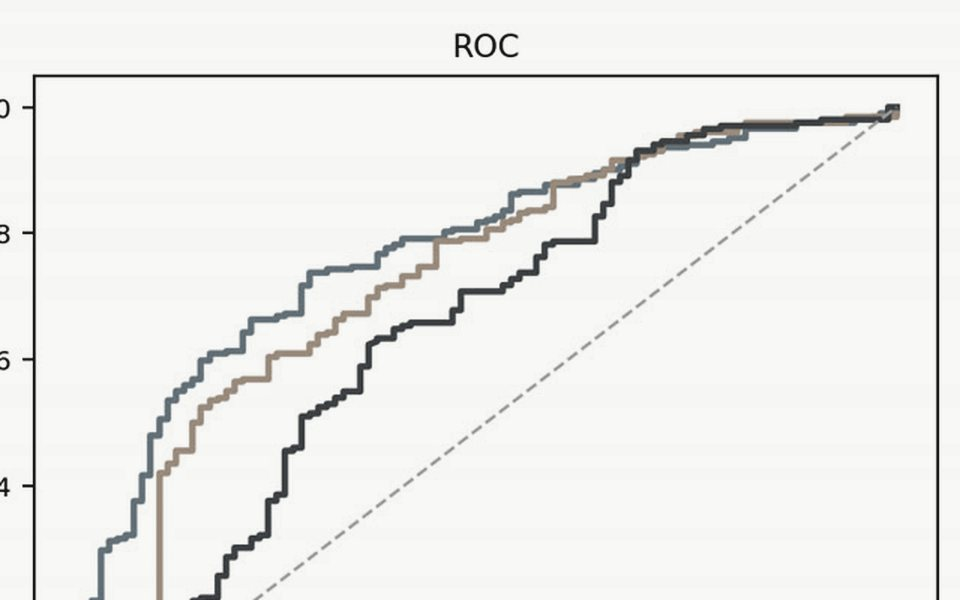
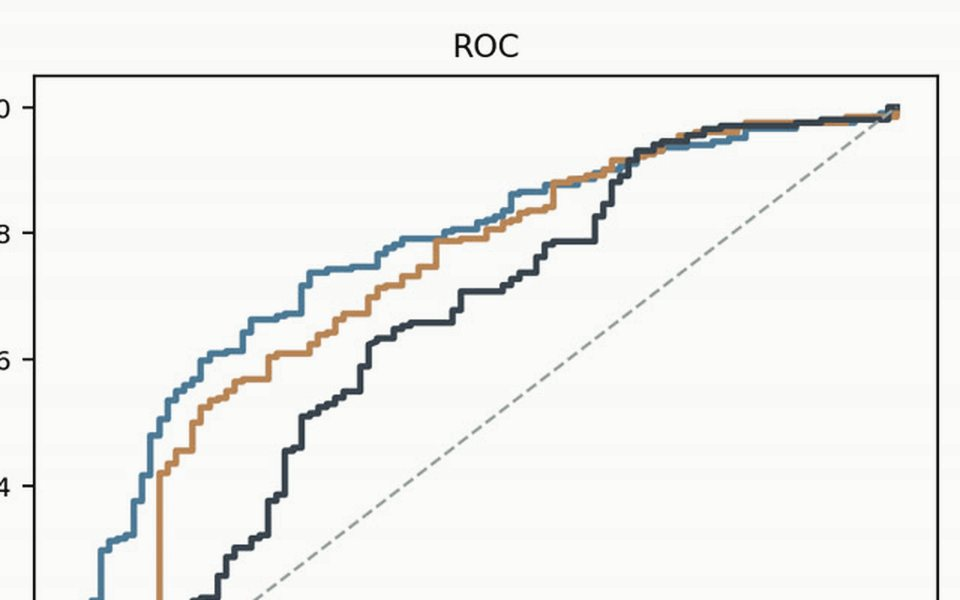
Thumbnails keep half their original colour (was 14%)

diff --git a/tools/make_thumbs.py b/tools/make_thumbs.py
@@ -17,7 +17,7 @@ ROOT = pathlib.Path(__file__).resolve().parent.parent
 W, H = 960, 600
 INK = (24, 24, 23)        # darkest tone, near the masthead's #151514
 PAPER = (247, 247, 245)   # lightest tone, the site's paper
-KEEP_COLOUR = 0.14        # how much of the original colour survives the tone pass
+KEEP_COLOUR = 0.5         # how much of the original colour survives the tone pass
 
 # slug: (source under assets/projects/<slug>/, pre-crop box or None, focus x, focus y)
 # The box picks the detail to show; the focus point says where the 16:10 crop centres.
